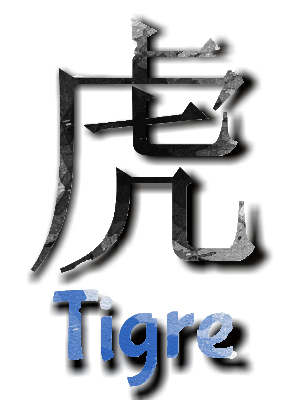
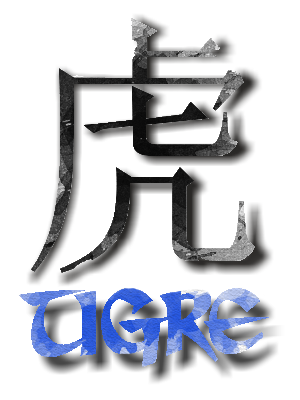
Inserção da imagem tai chi

diff --git a/index.html b/index.html
@@ -134,19 +134,23 @@
          
                   <img src="assets/img/background-img-header.png" alt="" style="width: 100%;height: 500px;">
                   <h1 style="width: 70%; height: 33rem; position: absolute; z-index: 2; left: 210px; top: 110px; color: #DAA520;">Estilo Shaolin Sul</h1>
-               <div>
+            <div id="slider">   
+               
                       <img :class="showBanner" src="assets/img/fundo_dragao.png" alt="" style="width: 70%; height: 33rem; position: absolute; right: 100px;top: 150px;">
                       <img :class="showTitle" src="assets/img/palavra dragao.png" alt="" style="width: 300px; height: 400px; position: absolute; left: 180px;top: 150px;">
-               </div>
-               <div>
+            
                        <img :class="showBanner2" src="assets/img/fundo_tigre.png" alt="" style="width: 70%; height: 33rem; position: absolute; right: 100px;top: 150px;">
                        <img :class="showTitle2" src="assets/img/palavra tigre.png" alt="" style="width: 300px; height: 400px; position: absolute; left: 180px;top: 150px;">
-               </div>
+             
+                       <img :class="showBanner3" src="assets/img/fundo_tai_chi_chuan.png" alt="" style="width: 70%; height: 33rem; position: absolute; right: 100px;top: 150px;">
+                       <img :class="showTitle3" src="assets/img/palavra tai chi chuan.png" alt="" style="width: 300px; height: 400px; position: absolute; left: 180px;top: 150px;">
+               
+            </div> 
                   <img src="assets/img/barra.png" style="position: absolute; top: 150px; left: 0px; height: 550px; width: 250px;" alt="">
                   <button  style="width: 40px; height: 40px; position: absolute; left: 20px; top: 250px; opacity: 0; z-index: 2;" @click="onClick()" ></button><img id="imgButton" :class="rotate1" src="assets/img/Taichi.png" alt="" style="position: absolute; left: 20px; top: 250px;">
                   <button  style="width: 40px; height: 40px; position: absolute; left: 20px; top: 320px; opacity: 0; z-index: 2;" @click="onClick2()"></button><img id="imgButton" :class="rotate2" src="assets/img/Taichi.png" alt="" style="position: absolute; left: 20px; top: 320px;">
-                  <button style="width: 40px; height: 40px; position: absolute; left: 20px; top: 390px; opacity: 0; z-index: 2;"></button><img id="imgButton" :class="rotate3" src="assets/img/Taichi.png" alt="" style="position: absolute; left: 20px; top: 390px; ">
-                  <button style="width: 40px; height: 40px; position: absolute; left: 20px; top: 460px; opacity: 0; z-index: 2;"></button><img id="imgButton" :class="rotate3" src="assets/img/Taichi.png" alt="" style="position: absolute; left: 20px; top: 460px;">
+                  <button style="width: 40px; height: 40px; position: absolute; left: 20px; top: 390px; opacity: 0; z-index: 2;"  @click="onClick3()"></button><img id="imgButton" :class="rotate3" src="assets/img/Taichi.png" alt="" style="position: absolute; left: 20px; top: 390px; ">
+                  <button style="width: 40px; height: 40px; position: absolute; left: 20px; top: 460px; opacity: 0; z-index: 2;"></button><img id="imgButton" :class="rotate4" src="assets/img/Taichi.png" alt="" style="position: absolute; left: 20px; top: 460px;">
           
           </div>
     </div>
@@ -158,55 +162,82 @@
         el: '#app',
        
         data: {
-            time: "tigre",
             showBanner: "active",
             showTitle:  "activeTitle",
             showBanner2: "inactive",
             showTitle2:  "inactiveTitle",
+            showBanner3: "inactive",
+            showTitle3:  "inactiveTitle",
             rotate1: "activeButton",
             rotate2: "inactiveButton",
             rotate3: "inactiveButton",
+            rotate4: "inactiveButton",
+            clock: 1,
         },
         
         methods: {
            onClick(){
-              this.showBanner = "active"
-              this.showTitle = "activeTitle"
-              this.showBanner2 = "inactive"
-              this.showTitle2 = "inactiveTitle"
-              this.rotate1 = "activeButton"
-              this.rotate2= "inactiveButton"
-             
+              this.clock = 2;
            },
 
            onClick2(){
-              this.showBanner = "inactive"
-              this.showTitle = "inactiveTitle"
-              this.showBanner2 = "active"
-              this.showTitle2 = "activeTitle"
-              this.rotate1 = "inactiveButton"
-              this.rotate2= "activeButton"
-              
+              this.clock = 8;
+           },
+
+           onClick3(){
+              this.clock = 17;
            },
            
+           lowTime(){
+               this.clock ++;
+               
+                    if(this.clock > 23){
+                        this.clock = 0;
+                    }
+                        if(this.clock <= 7 ){
+                                this.showBanner = "active"
+                                this.showTitle = "activeTitle"
+                                this.showBanner2 = "inactive"
+                                this.showTitle2 = "inactiveTitle"
+                                this.showBanner3 = "inactive"
+                                this.showTitle3 = "inactiveTitle"
+                                this.rotate1 = "activeButton"
+                                this.rotate2= "inactiveButton"
+                                this.rotate3= "inactiveButton"
+                       }else if( this.clock >= 8 && this.clock <= 15  ){
+                                this.showBanner = "inactive"
+                                this.showTitle = "inactiveTitle"
+                                this.showBanner2 = "active"
+                                this.showTitle2 = "activeTitle"
+                                this.showBanner3 = "inactive"
+                                this.showTitle3 = "inactiveTitle"
+                                this.rotate1 = "inactiveButton"
+                                this.rotate2= "activeButton"
+                                this.rotate3= "inactiveButton"
+                       }
+                       else if( this.clock >= 16 ){
+                                this.showBanner = "inactive"
+                                this.showTitle = "inactiveTitle"
+                                this.showBanner2 = "inactive"
+                                this.showTitle2 = "inactiveTitle"
+                                this.showBanner3 = "active"
+                                this.showTitle3 = "activeTitle"
+                                this.rotate1 = "inactiveButton"
+                                this.rotate2= "inactiveButton"
+                                this.rotate3= "activeButton"
+                       }
+           },
         },
 
         created() {
             var vm = this;
-            if(this.time === "tigre"){
+            var crono = 1000;
+            
             setInterval(function(){
-               vm.onClick2()
-            }, 5000)
-            this.time = "dragao"
-            }
-            if(this.time === "dragao"){
-            setInterval(function(){
-               vm.onClick()
-            }, 10000)
-            this.time = "tigre"
-           }
-        },
+                vm.lowTime()
+            }, crono)
 
+        },
 })
 
 </script>
